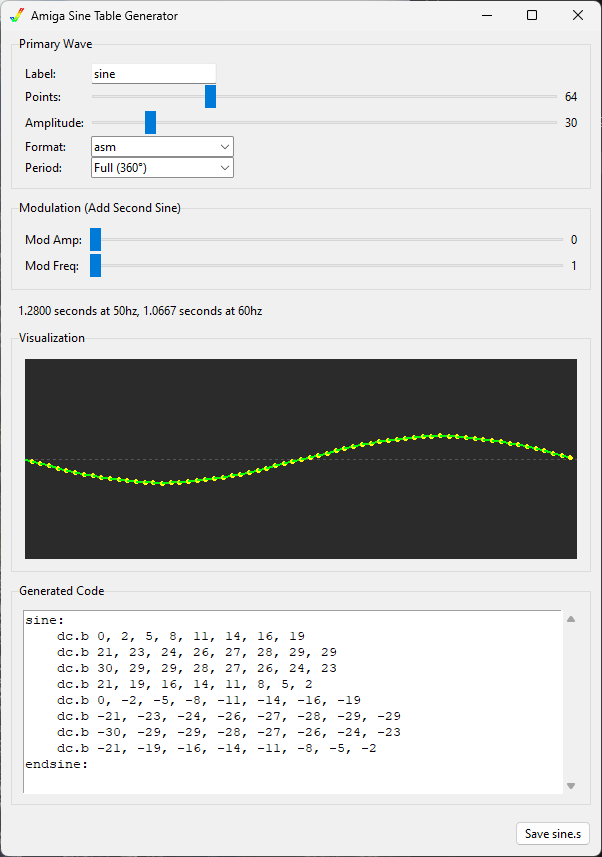
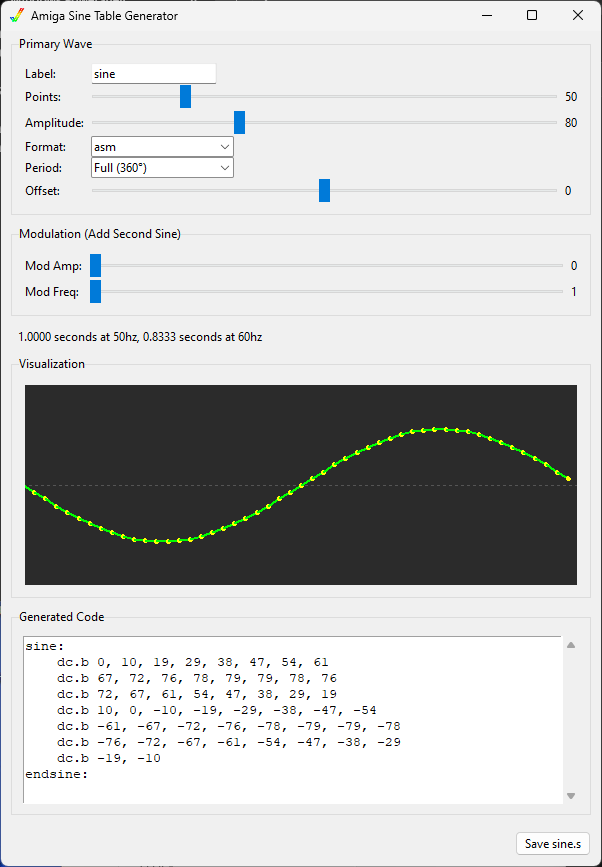
feat: Add wave offset parameter to sine generation and enhance plot visualization with period-mode specific baselines and clamping.

diff --git a/sine_gen.py b/sine_gen.py
@@ -6,12 +6,15 @@ import tkinter as tk
 from tkinter import ttk, filedialog, messagebox
 
 # Function to calculate sine wave points based on parameters
-def calculate_points(n_points, amplitude, mod_amp=0, mod_freq=1, period_mode="full"):
+def calculate_points(n_points, amplitude, mod_amp=0, mod_freq=1, period_mode="full", offset=0):
     """
     Calculates a set of sine wave points based on the provided parameters.
 
     This function generates a series of points representing a sine wave, optionally
-    modulated by a second sine wave. The result is clamped to an 8-bit signed range.
+    modulated by a second sine wave. The result is clamped based on period mode:
+    - full: [-128, 127] (signed byte)
+    - half: [0, 255] (unsigned byte, positive wave)
+    - neg_half: [-255, 0] (negative wave)
 
     Args:
         n_points (int): The number of points to generate.
@@ -19,9 +22,10 @@ def calculate_points(n_points, amplitude, mod_amp=0, mod_freq=1, period_mode="fu
         mod_amp (int, optional): The amplitude of the modulation sine wave. Defaults to 0.
         mod_freq (int, optional): The frequency multiplier for the modulation wave. Defaults to 1.
         period_mode (str, optional): The period mode ("full", "half", "neg_half"). Defaults to "full".
+        offset (int, optional): Offset to shift the wave center. Defaults to 0.
 
     Returns:
-        list: A list of integer values representing the sine wave points, clamped to [-128, 127].
+        list: A list of integer values representing the sine wave points, clamped per mode.
     """
     # Initialize the list to hold the calculated points
     points = []
@@ -43,6 +47,17 @@ def calculate_points(n_points, amplitude, mod_amp=0, mod_freq=1, period_mode="fu
     # Calculate the total range of the angle
     angle_range = end_angle - start_angle
     
+    # Determine clamping range based on period mode
+    if period_mode == "half":
+        # Unsigned byte range for positive half-wave
+        clamp_min, clamp_max = 0, 255
+    elif period_mode == "neg_half":
+        # Negative range for negative half-wave
+        clamp_min, clamp_max = -255, 0
+    else:
+        # Signed byte range for full wave
+        clamp_min, clamp_max = -128, 127
+    
     # Loop through the number of points requested
     for i in range(n_points):
         # Map the current index i from 0..n_points to start_angle..end_angle
@@ -57,13 +72,13 @@ def calculate_points(n_points, amplitude, mod_amp=0, mod_freq=1, period_mode="fu
         # For simplicity and predictability in "half" modes, let's keep it relative to the angle being sampled.
         val2 = math.sin(angle * mod_freq) * mod_amp
         
-        # Combine the primary and modulation values
-        value_float = val1 + val2
+        # Combine the primary and modulation values, then add offset
+        value_float = val1 + val2 + offset
         # Convert the float result to an integer
         value = int(value_float)
         
-        # Clamp the value to the 8-bit signed integer range [-128, 127]
-        value = max(-128, min(127, value))
+        # Clamp the value to the appropriate range based on period mode
+        value = max(clamp_min, min(clamp_max, value))
         # Append the calculated value to the points list
         points.append(value)
         
@@ -197,7 +212,7 @@ def generate_source(label, points, fmt="asm"):
         return generate_source_asm(label, points)
 
 # Wrapper to calculate points and then generate source code
-def generate_sine_table(label, n_points, amplitude, mod_amp=0, mod_freq=1, period_mode="full", fmt="asm"):
+def generate_sine_table(label, n_points, amplitude, mod_amp=0, mod_freq=1, period_mode="full", fmt="asm", offset=0):
     """
     High-level function to generate the complete sine table source code.
 
@@ -209,12 +224,13 @@ def generate_sine_table(label, n_points, amplitude, mod_amp=0, mod_freq=1, perio
         mod_freq (int, optional): Modulation frequency.
         period_mode (str, optional): Period mode.
         fmt (str, optional): Output format.
+        offset (int, optional): Offset to shift wave center.
 
     Returns:
         str: The complete generated source code.
     """
     # First, calculate the raw data points
-    points = calculate_points(n_points, amplitude, mod_amp, mod_freq, period_mode)
+    points = calculate_points(n_points, amplitude, mod_amp, mod_freq, period_mode, offset)
     # Then generate and return the formatted source code
     return generate_source(label, points, fmt)
 
@@ -236,7 +252,7 @@ class SineApp:
         self.root = root
         # Set window title and size
         self.root.title("Amiga Sine Table Generator")
-        self.root.geometry("600x825")
+        self.root.geometry("600x835")
         
         # Try to set the window icon
         try:
@@ -255,6 +271,9 @@ class SineApp:
         # --- Advanced Variables ---
         self.mod_amp_var = tk.IntVar(value=args.mod_amp)
         self.mod_freq_var = tk.IntVar(value=args.mod_freq)
+        
+        # --- Offset Variable ---
+        self.offset_var = tk.IntVar(value=args.offset)
         
         # --- Map command line args to GUI period string ---
         p_val = "Full (360°)"
@@ -309,6 +328,13 @@ class SineApp:
         self.period_combo = ttk.Combobox(primary_frame, textvariable=self.period_var, values=["Full (360°)", "Half (Positive)", "Half (Negative)"], state="readonly")
         self.period_combo.grid(row=4, column=1, sticky=tk.W, padx=5)
         self.period_combo.bind("<<ComboboxSelected>>", lambda e: self.update_all())
+        
+        # Row 5: Offset Slider
+        ttk.Label(primary_frame, text="Offset:").grid(row=5, column=0, sticky=tk.W)
+        self.offset_slider = ttk.Scale(primary_frame, from_=-128, to=127, variable=self.offset_var, orient=tk.HORIZONTAL, command=self.on_change)
+        self.offset_slider.grid(row=5, column=1, sticky=tk.EW, padx=5)
+        self.offset_label = ttk.Label(primary_frame, text=str(self.offset_var.get()))
+        self.offset_label.grid(row=5, column=2, sticky=tk.W)
 
         # Allow the middle column to expand
         primary_frame.columnconfigure(1, weight=1)
@@ -380,6 +406,7 @@ class SineApp:
         self.amplitude_label.config(text=str(self.amplitude_var.get()))
         self.mod_amp_label.config(text=str(self.mod_amp_var.get()))
         self.mod_freq_label.config(text=str(self.mod_freq_var.get()))
+        self.offset_label.config(text=str(self.offset_var.get()))
         # Trigger full update
         self.update_all()
 
@@ -404,6 +431,9 @@ class SineApp:
             if "Positive" in p_gui: period_mode = "half"
             elif "Negative" in p_gui: period_mode = "neg_half"
             
+            # Get offset value
+            offset = self.offset_var.get()
+            
             # Handle empty points case to avoid errors
             if points_count == 0:
                 self.text_area.delete(1.0, tk.END)
@@ -411,7 +441,7 @@ class SineApp:
                 return
 
             # Calculate the points
-            points = calculate_points(points_count, amplitude, mod_amp, mod_freq, period_mode)
+            points = calculate_points(points_count, amplitude, mod_amp, mod_freq, period_mode, offset)
             
             # Generate the source code
             code = generate_source(label, points, fmt)
@@ -420,7 +450,7 @@ class SineApp:
             self.text_area.insert(tk.END, code)
             
             # Redraw the visualization plot
-            self.draw_plot(points, amplitude)
+            self.draw_plot(points, amplitude, period_mode)
             
             # Update estimated execution time strings (just for reference)
             time_50hz = points_count * 0.02
@@ -437,13 +467,14 @@ class SineApp:
             # Silently ignore errors during update (e.g. typing incomplete numbers)
             pass
 
-    def draw_plot(self, points, amplitude):
+    def draw_plot(self, points, amplitude, period_mode="full"):
         """
         Draws the visualization of the sine wave on the canvas.
 
         Args:
             points (list): The list of sine values.
-            amplitude (int): The amplitude (used for scaling/reference, though currently calc handles it).
+            amplitude (int): The amplitude (used for scaling/reference).
+            period_mode (str): The period mode to adjust visualization.
         """
         # Clear the canvas
         self.canvas.delete("all")
@@ -455,30 +486,48 @@ class SineApp:
         if w < 10: w = 550
         if h < 10: h = 200
 
-        # Calculate Vertical Center
-        center_y = h / 2
-        
         if not points:
             return
 
-        # Calculate scales for fitting points to canvas
+        # Calculate scales and baseline based on period mode
         x_step = w / len(points)
-        y_scale = (h / 2) / 130 # 130 is slightly more than max amp 127 + padding
-
-        prev_x = 0
-        prev_y = center_y + (points[0] * y_scale)
+        padding = 10  # Pixels padding from top/bottom edges
         
-        # Draw Center Guideline
-        self.canvas.create_line(0, center_y, w, center_y, fill="#555555", dash=(2, 4))
+        # All modes use sign = +1 for Amiga screen coords:
+        # Negative values go UP (smaller y/vpos), positive values go DOWN (larger y/vpos)
+        sign = 1
+        
+        if period_mode == "half":
+            # Half-positive: values 0-255, baseline at TOP
+            # Zero line at top, positive values go DOWN (Amiga screen coords)
+            baseline_y = padding
+            y_scale = (h - 2 * padding) / 260  # 260 gives slight headroom for 255
+            # Draw zero guideline at top
+            self.canvas.create_line(0, baseline_y, w, baseline_y, fill="#555555", dash=(2, 4))
+        elif period_mode == "neg_half":
+            # Half-negative: values -255 to 0, baseline at BOTTOM
+            # Zero line at bottom, negative values go UP (Amiga screen coords)
+            baseline_y = h - padding
+            y_scale = (h - 2 * padding) / 260
+            # Draw zero guideline at bottom
+            self.canvas.create_line(0, baseline_y, w, baseline_y, fill="#555555", dash=(2, 4))
+        else:
+            # Full wave: values -128 to 127, baseline at center
+            # Positive goes UP, negative goes DOWN
+            baseline_y = h / 2
+            y_scale = (h / 2 - padding) / 130  # 130 gives slight headroom for ±128
+            # Draw center guideline
+            self.canvas.create_line(0, baseline_y, w, baseline_y, fill="#555555", dash=(2, 4))
+
+        # Calculate first point position
+        prev_x = 0
+        prev_y = baseline_y + (sign * points[0] * y_scale)
 
         # Loop through points and draw lines connecting them
         for i in range(1, len(points)):
             x = i * x_step
-            # For Amiga/screen coords, positive Y is down, so we add. 
-            # (Note: Math sine is usually up for positive, but screen y is down. 
-            # If we want visual match to standard math plot we might subtract, 
-            # but usually for raw data viz we just map directly).
-            y = center_y + (points[i] * y_scale)
+            # Map value to y position
+            y = baseline_y + (sign * points[i] * y_scale)
             
             # Draw line segment
             self.canvas.create_line(prev_x, prev_y, x, y, fill="#00ff00", width=2)
@@ -528,13 +577,14 @@ def main():
     # Set up argument parser for CLI usage
     parser = argparse.ArgumentParser(description="Sine Generator for 68000 Assembly")
     parser.add_argument("--label", default="sine", help="ASM label name (default: sine)")
-    parser.add_argument("--points", type=int, default=64, help="Number of points (default: 64)")
-    parser.add_argument("--amplitude", type=int, default=30, help="Amplitude (default: 30)")
+    parser.add_argument("--points", type=int, default=50, help="Number of points (default: 50)")
+    parser.add_argument("--amplitude", type=int, default=80, help="Amplitude (default: 80)")
     parser.add_argument("--output", help="Output file (optional)")
     parser.add_argument("--format", choices=["asm", "c", "blitz"], default="asm", help="Output format (asm, c, blitz). Default: asm")
     parser.add_argument("--mod-amp", type=int, default=0, help="Modulation amplitude (default: 0)")
     parser.add_argument("--mod-freq", type=int, default=1, help="Modulation frequency (default: 1)")
     parser.add_argument("--period", choices=["full", "half", "neg_half"], default="full", help="Period mode: full, half, neg_half. Default: full")
+    parser.add_argument("--offset", type=int, default=0, help="Offset to shift wave center (default: 0)")
     parser.add_argument("--cli", action="store_true", help="Run in Command Line Interface mode")
     
     # Parse arguments
@@ -543,7 +593,7 @@ def main():
     # Check if CLI mode is requested
     if args.cli:
         # Generate code directly without GUI
-        code = generate_sine_table(args.label, args.points, args.amplitude, args.mod_amp, args.mod_freq, args.period, args.format)
+        code = generate_sine_table(args.label, args.points, args.amplitude, args.mod_amp, args.mod_freq, args.period, args.format, args.offset)
         
         # Output to file or stdout
         if args.output:

diff --git a/README.md b/README.md
@@ -56,8 +56,8 @@ python sine_gen.py --cli [options]
 **Arguments:**
 -   `--cli`: **Required** to run in CLI mode.
 -   `--label`: ASM label name (default: `sine`).
--   `--points`: Number of points (default: `64`).
--   `--amplitude`: Amplitude of the wave (default: `30`).
+-   `--points`: Number of points (default: `50`).
+-   `--amplitude`: Amplitude of the wave (default: `80`).
 -   `--format`: Output format: `asm` (default), `c`, `blitz`.
 -   `--mod-amp`: Modulation amplitude (default: `0`).
 -   `--mod-freq`: Modulation frequency multiplier (default: `1`).
